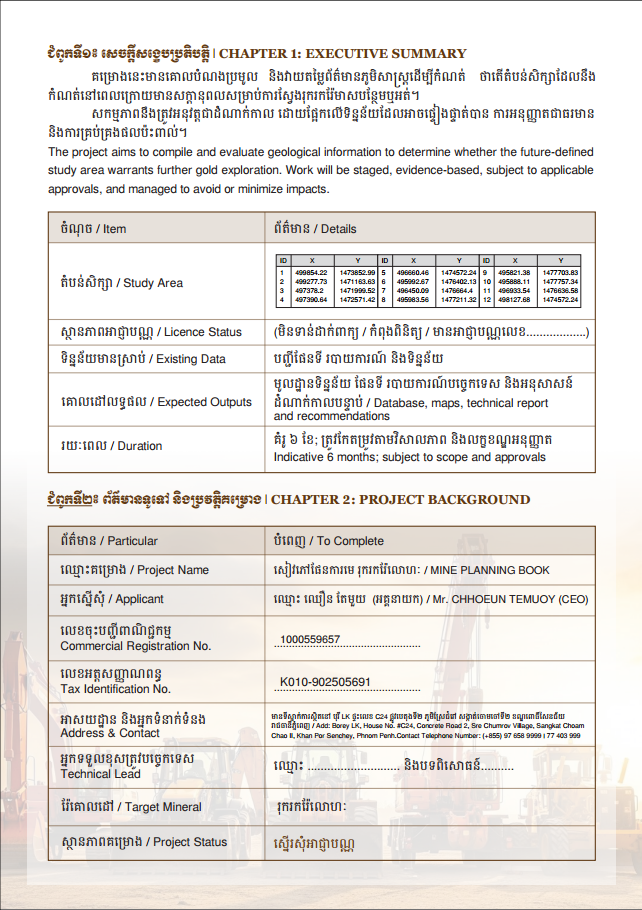
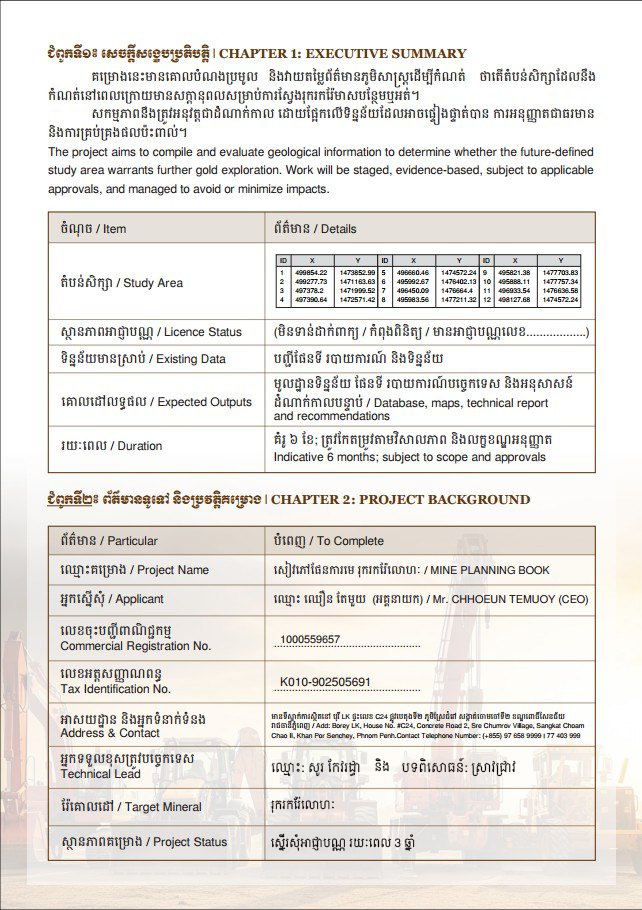
Replace Mine Planning Book image

diff --git a/service-worker.js b/service-worker.js
@@ -1,4 +1,4 @@
-const CACHE_NAME = "va-rovieng-v156";
+const CACHE_NAME = "va-rovieng-v158";
 const APP_SHELL = [
   "./",
   "./index.html",

diff --git a/UPDATES.md b/UPDATES.md
@@ -2,6 +2,7 @@
 
 Updated 2026-11-17.
 
+- Replaced the Mine Planning Book executive-summary image with the supplied full image, restoring the Technical Lead, Target Mineral, and Project Status details.
 - Removed the numbered "Area of interest" labels from the Copper and Gold cards.
 - Set the Mine Planning Book carousel to advance automatically every eight seconds.
 - Refined the Scientific Researcher credential descriptions.
